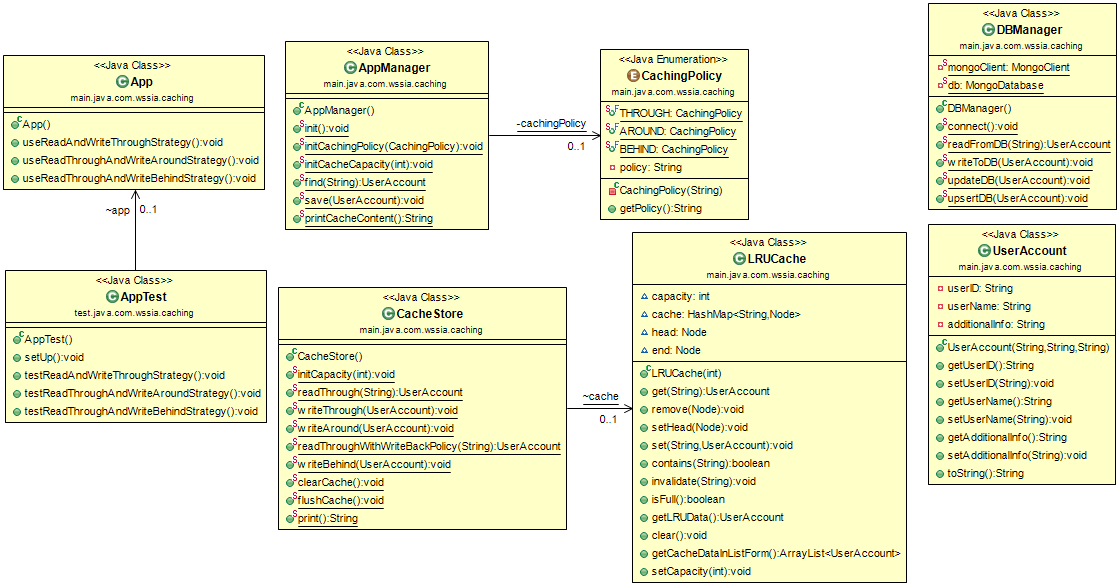
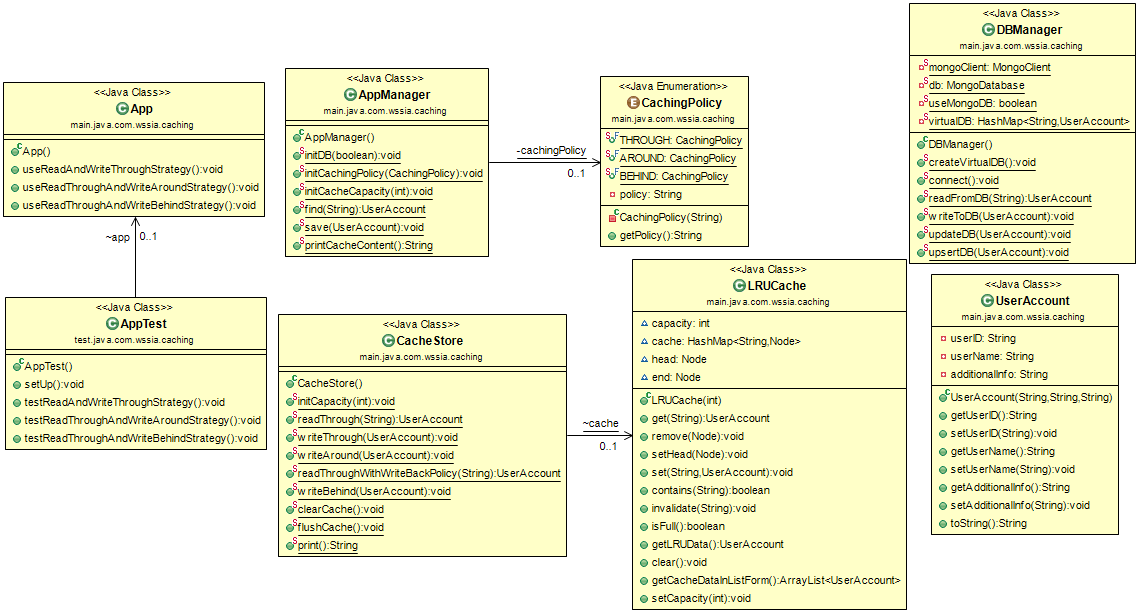
Issue #273: Changed DB to internal Java data structure to avoid compilation errors + decrease in code coverage

diff --git a/caching/src/main/java/com/wssia/caching/DBManager.java b/caching/src/main/java/com/wssia/caching/DBManager.java
@@ -1,6 +1,7 @@
 package main.java.com.wssia.caching;
 
 import java.text.ParseException;
+import java.util.HashMap;
 
 import org.bson.Document;
 
@@ -15,18 +16,35 @@ import com.mongodb.client.model.UpdateOptions;
  * implemented methods for querying, inserting, and updating data. MongoDB was used as the database
  * for the application.
  *
+ * Developer/Tester is able to choose whether the application should use MongoDB as its underlying
+ * data storage (connect()) or a simple Java data structure to (temporarily) store the data/objects
+ * during runtime (createVirtualDB()).
  */
 public class DBManager {
 
   private static MongoClient mongoClient;
   private static MongoDatabase db;
+  private static boolean useMongoDB;
+
+  private static HashMap<String, UserAccount> virtualDB;
+
+  public static void createVirtualDB() {
+    useMongoDB = false;
+    virtualDB = new HashMap<String, UserAccount>();
+  }
 
   public static void connect() throws ParseException {
+    useMongoDB = true;
     mongoClient = new MongoClient();
     db = mongoClient.getDatabase("test");
   }
 
   public static UserAccount readFromDB(String userID) {
+    if (!useMongoDB) {
+      if (virtualDB.containsKey(userID))
+        return virtualDB.get(userID);
+      return null;
+    }
     if (null == db) {
       try {
         connect();
@@ -45,6 +63,10 @@ public class DBManager {
   }
 
   public static void writeToDB(UserAccount userAccount) {
+    if (!useMongoDB) {
+      virtualDB.put(userAccount.getUserID(), userAccount);
+      return;
+    }
     if (null == db) {
       try {
         connect();
@@ -58,6 +80,10 @@ public class DBManager {
   }
 
   public static void updateDB(UserAccount userAccount) {
+    if (!useMongoDB) {
+      virtualDB.put(userAccount.getUserID(), userAccount);
+      return;
+    }
     if (null == db) {
       try {
         connect();
@@ -76,6 +102,10 @@ public class DBManager {
    * Insert data into DB if it does not exist. Else, update it.
    */
   public static void upsertDB(UserAccount userAccount) {
+    if (!useMongoDB) {
+      virtualDB.put(userAccount.getUserID(), userAccount);
+      return;
+    }
     if (null == db) {
       try {
         connect();

diff --git a/caching/src/main/java/com/wssia/caching/AppManager.java b/caching/src/main/java/com/wssia/caching/AppManager.java
@@ -15,11 +15,21 @@ public class AppManager {
 
   private static CachingPolicy cachingPolicy;
 
-  public static void init() {
-    try {
-      DBManager.connect();
-    } catch (ParseException e) {
-      e.printStackTrace();
+  /**
+   *
+   * Developer/Tester is able to choose whether the application should use MongoDB as its underlying
+   * data storage or a simple Java data structure to (temporarily) store the data/objects during
+   * runtime.
+   */
+  public static void initDB(boolean useMongoDB) {
+    if (useMongoDB) {
+      try {
+        DBManager.connect();
+      } catch (ParseException e) {
+        e.printStackTrace();
+      }
+    } else {
+      DBManager.createVirtualDB();
     }
   }
 

diff --git a/caching/src/test/java/com/wssia/caching/AppTest.java b/caching/src/test/java/com/wssia/caching/AppTest.java
@@ -19,7 +19,10 @@ public class AppTest {
    */
   @Before
   public void setUp() {
-    AppManager.init();
+    AppManager.initDB(false); // VirtualDB (instead of MongoDB) was used in running the JUnit tests
+                              // to avoid Maven compilation errors. Set flag to true to run the
+                              // tests with MongoDB (provided that MongoDB is installed and socket
+                              // connection is open).
     AppManager.initCacheCapacity(3);
     app = new App();
   }

diff --git a/caching/src/main/java/com/wssia/caching/CacheStore.java b/caching/src/main/java/com/wssia/caching/CacheStore.java
@@ -42,7 +42,7 @@ public class CacheStore {
     if (cache.contains(userAccount.getUserID())) {
       DBManager.updateDB(userAccount);
       cache.invalidate(userAccount.getUserID()); // Cache data has been updated -- remove older
-      // version from cache.
+                                                 // version from cache.
     } else {
       DBManager.writeToDB(userAccount);
     }

diff --git a/caching/src/main/java/com/wssia/caching/LRUCache.java b/caching/src/main/java/com/wssia/caching/LRUCache.java
@@ -138,7 +138,7 @@ public class LRUCache {
   public void setCapacity(int newCapacity) {
     if (capacity > newCapacity) {
       clear(); // Behavior can be modified to accommodate for decrease in cache size. For now, we'll
-      // just clear the cache.
+               // just clear the cache.
     } else {
       this.capacity = newCapacity;
     }
